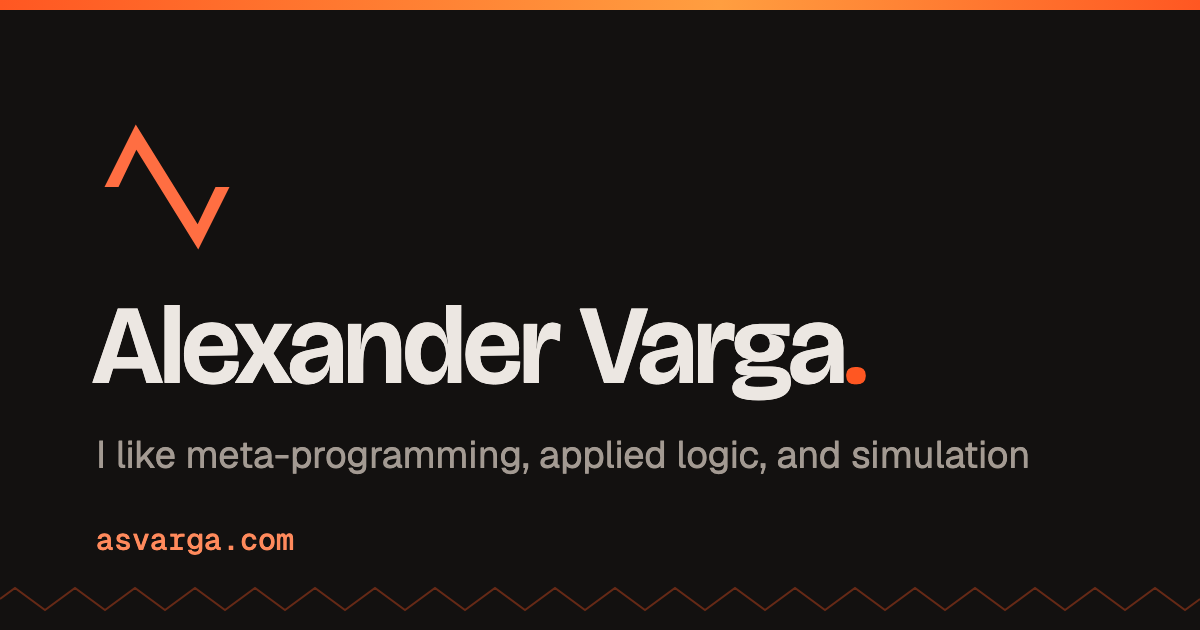
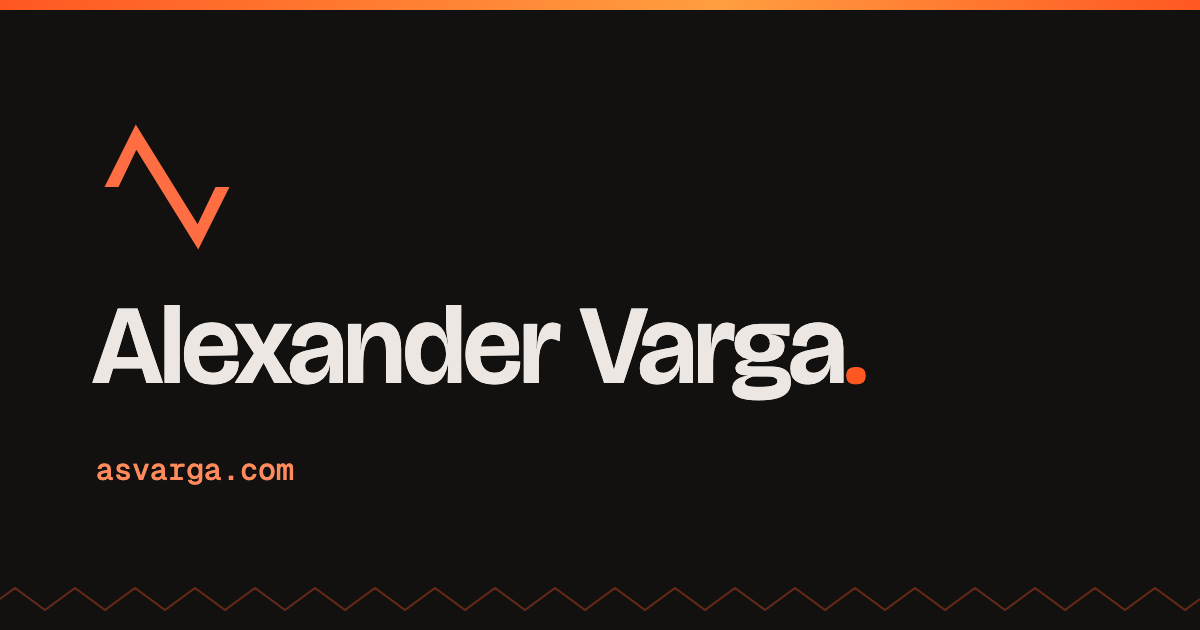
Default social image: drop the subtitle

Changed region(s): [[0.0617, 0.6937, 0.8633, 0.7841], [0.0617, 0.8444, 0.2467, 0.8746]]

diff --git a/docs/blog/2024/06/22/fair-chess-and-simultaneous-games/index.html b/docs/blog/2024/06/22/fair-chess-and-simultaneous-games/index.html
@@ -12,7 +12,7 @@
 <meta property="og:image" content="https://asvarga.com/files/og-default.png">
 <meta property="og:image:width" content="1200">
 <meta property="og:image:height" content="630">
-<meta property="og:image:alt" content="Alexander Varga: I like meta-programming, applied logic, and simulation">
+<meta property="og:image:alt" content="Alexander Varga, asvarga.com">
 <meta name="twitter:card" content="summary_large_image">
 <meta property="og:description" content="The game of chess is famously flawed due to the first-move advantage, in which the player who moves first has a significant advantage. Let&#x27;s fix it and make it fair.">
 <link rel="canonical" href="https://asvarga.com/blog/2024/06/22/fair-chess-and-simultaneous-games/">

diff --git a/docs/blog/2026/03/24/nanobots/index.html b/docs/blog/2026/03/24/nanobots/index.html
@@ -12,7 +12,7 @@
 <meta property="og:image" content="https://asvarga.com/files/og-default.png">
 <meta property="og:image:width" content="1200">
 <meta property="og:image:height" content="630">
-<meta property="og:image:alt" content="Alexander Varga: I like meta-programming, applied logic, and simulation">
+<meta property="og:image:alt" content="Alexander Varga, asvarga.com">
 <meta name="twitter:card" content="summary_large_image">
 <meta property="og:description" content="I built a compiler to let users program millions of nanobots that run in the GPU. Let me show you its features:)">
 <link rel="canonical" href="https://asvarga.com/blog/2026/03/24/nanobots/">

diff --git a/docs/blog/2026/05/02/function-with-4-fold-symmetry/index.html b/docs/blog/2026/05/02/function-with-4-fold-symmetry/index.html
@@ -12,7 +12,7 @@
 <meta property="og:image" content="https://asvarga.com/files/og-default.png">
 <meta property="og:image:width" content="1200">
 <meta property="og:image:height" content="630">
-<meta property="og:image:alt" content="Alexander Varga: I like meta-programming, applied logic, and simulation">
+<meta property="og:image:alt" content="Alexander Varga, asvarga.com">
 <meta name="twitter:card" content="summary_large_image">
 <meta property="og:description" content="Puzzle: find a function f: ℝ → ℝ with 4-fold rotational symmetry.">
 <link rel="canonical" href="https://asvarga.com/blog/2026/05/02/function-with-4-fold-symmetry/">

diff --git a/docs/index.html b/docs/index.html
@@ -12,7 +12,7 @@
 <meta property="og:image" content="https://asvarga.com/files/og-default.png">
 <meta property="og:image:width" content="1200">
 <meta property="og:image:height" content="630">
-<meta property="og:image:alt" content="Alexander Varga: I like meta-programming, applied logic, and simulation">
+<meta property="og:image:alt" content="Alexander Varga, asvarga.com">
 <meta name="twitter:card" content="summary_large_image">
 <meta property="og:description" content="Alexander Varga: software engineer writing about programming languages, ordinals, data structures and games.">
 <link rel="canonical" href="https://asvarga.com/">

diff --git a/docs/site/fireworks/index.html b/docs/site/fireworks/index.html
@@ -12,7 +12,7 @@
 <meta property="og:image" content="https://asvarga.com/files/og-default.png">
 <meta property="og:image:width" content="1200">
 <meta property="og:image:height" content="630">
-<meta property="og:image:alt" content="Alexander Varga: I like meta-programming, applied logic, and simulation">
+<meta property="og:image:alt" content="Alexander Varga, asvarga.com">
 <meta name="twitter:card" content="summary_large_image">
 <meta property="og:description" content="Graphics course final project: thousands of GPU particles with real-time lighting.">
 <link rel="canonical" href="https://asvarga.com/site/fireworks/">

diff --git a/docs/site/hybrid-env/index.html b/docs/site/hybrid-env/index.html
@@ -12,7 +12,7 @@
 <meta property="og:image" content="https://asvarga.com/files/og-default.png">
 <meta property="og:image:width" content="1200">
 <meta property="og:image:height" content="630">
-<meta property="og:image:alt" content="Alexander Varga: I like meta-programming, applied logic, and simulation">
+<meta property="og:image:alt" content="Alexander Varga, asvarga.com">
 <meta name="twitter:card" content="summary_large_image">
 <meta property="og:description" content="A tiny language combining static and dynamic scoping, runnable in the browser.">
 <link rel="canonical" href="https://asvarga.com/site/hybrid-env/">

diff --git a/docs/site/index.html b/docs/site/index.html
@@ -12,7 +12,7 @@
 <meta property="og:image" content="https://asvarga.com/files/og-default.png">
 <meta property="og:image:width" content="1200">
 <meta property="og:image:height" content="630">
-<meta property="og:image:alt" content="Alexander Varga: I like meta-programming, applied logic, and simulation">
+<meta property="og:image:alt" content="Alexander Varga, asvarga.com">
 <meta name="twitter:card" content="summary_large_image">
 <meta property="og:description" content="Small interactive projects by Alexander Varga: languages, proofs, GPU toys and games.">
 <link rel="canonical" href="https://asvarga.com/site/">

diff --git a/docs/blog/index.html b/docs/blog/index.html
@@ -12,7 +12,7 @@
 <meta property="og:image" content="https://asvarga.com/files/og-default.png">
 <meta property="og:image:width" content="1200">
 <meta property="og:image:height" content="630">
-<meta property="og:image:alt" content="Alexander Varga: I like meta-programming, applied logic, and simulation">
+<meta property="og:image:alt" content="Alexander Varga, asvarga.com">
 <meta name="twitter:card" content="summary_large_image">
 <meta property="og:description" content="Posts on ordinals, data structures, games and compilers by Alexander Varga.">
 <link rel="canonical" href="https://asvarga.com/blog/">

diff --git a/docs/site/splotch/index.html b/docs/site/splotch/index.html
@@ -12,7 +12,7 @@
 <meta property="og:image" content="https://asvarga.com/files/og-default.png">
 <meta property="og:image:width" content="1200">
 <meta property="og:image:height" content="630">
-<meta property="og:image:alt" content="Alexander Varga: I like meta-programming, applied logic, and simulation">
+<meta property="og:image:alt" content="Alexander Varga, asvarga.com">
 <meta name="twitter:card" content="summary_large_image">
 <meta property="og:description" content="Simulated paint splotches racing to fill the plane, on Shadertoy.">
 <link rel="canonical" href="https://asvarga.com/site/splotch/">

diff --git a/docs/site/div-jumper/index.html b/docs/site/div-jumper/index.html
@@ -12,7 +12,7 @@
 <meta property="og:image" content="https://asvarga.com/files/og-default.png">
 <meta property="og:image:width" content="1200">
 <meta property="og:image:height" content="630">
-<meta property="og:image:alt" content="Alexander Varga: I like meta-programming, applied logic, and simulation">
+<meta property="og:image:alt" content="Alexander Varga, asvarga.com">
 <meta name="twitter:card" content="summary_large_image">
 <meta property="og:description" content="A platformer in a bookmarklet: play it on any site.">
 <link rel="canonical" href="https://asvarga.com/site/div-jumper/">

diff --git a/docs/site/collision-trees/index.html b/docs/site/collision-trees/index.html
@@ -12,7 +12,7 @@
 <meta property="og:image" content="https://asvarga.com/files/og-default.png">
 <meta property="og:image:width" content="1200">
 <meta property="og:image:height" content="630">
-<meta property="og:image:alt" content="Alexander Varga: I like meta-programming, applied logic, and simulation">
+<meta property="og:image:alt" content="Alexander Varga, asvarga.com">
 <meta name="twitter:card" content="summary_large_image">
 <meta property="og:description" content="Computational art from self-colliding trees.">
 <link rel="canonical" href="https://asvarga.com/site/collision-trees/">

diff --git a/docs/site/ackermann/index.html b/docs/site/ackermann/index.html
@@ -12,7 +12,7 @@
 <meta property="og:image" content="https://asvarga.com/files/og-default.png">
 <meta property="og:image:width" content="1200">
 <meta property="og:image:height" content="630">
-<meta property="og:image:alt" content="Alexander Varga: I like meta-programming, applied logic, and simulation">
+<meta property="og:image:alt" content="Alexander Varga, asvarga.com">
 <meta name="twitter:card" content="summary_large_image">
 <meta property="og:description" content="Interactive Ackermann function visualizer.">
 <link rel="canonical" href="https://asvarga.com/site/ackermann/">
